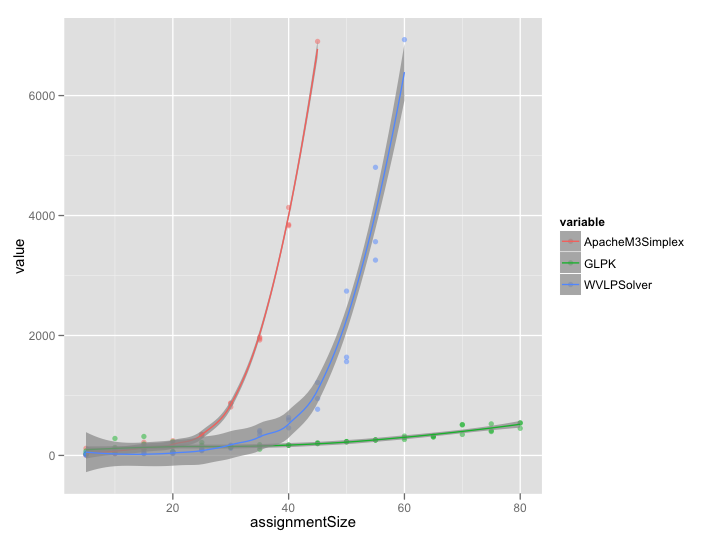
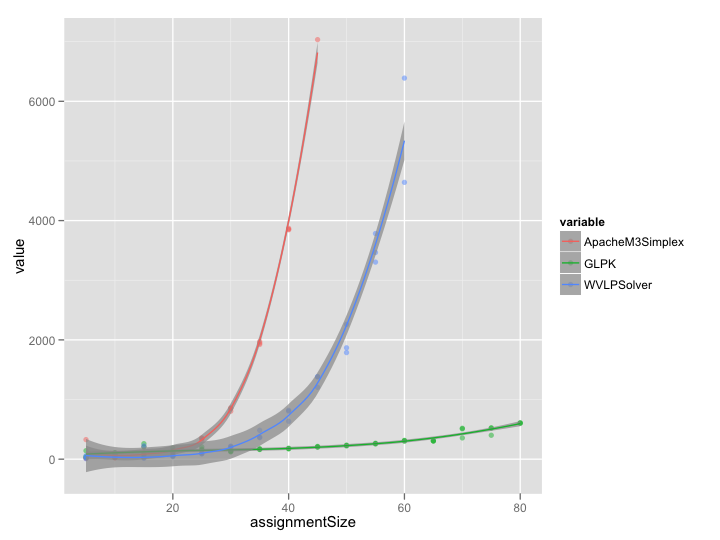
add back in pertubations re-run

diff --git a/src/com/winvector/lp/impl/RevisedSimplexSolver.java b/src/com/winvector/lp/impl/RevisedSimplexSolver.java
@@ -21,9 +21,11 @@ public final class RevisedSimplexSolver extends LPSolverImpl {
 	public double checkTol = 1.0e-8;
 	public double enteringTol = 1.0e-5;
 	public double leavingTol = 1.0e-7;
-	public boolean earlyR = true;                 // allow partial inspection for entering columns
-	public boolean earlyLeavingCalc = false;       // value and sort steps early
-	public boolean earlyLeavingExit = false;       // allow early inspection exit on valuation calc
+	public boolean perturbC = true;
+	public boolean perturbB = true;
+	public boolean earlyR = false;                 // allow partial inspection for entering columns
+	public boolean earlyLeavingCalc = true;       // value and sort steps early
+	public boolean earlyLeavingExit = true;       // allow early inspection exit on valuation calc
 	public Random rand = new Random(3252351L);
 
 	
@@ -38,6 +40,25 @@ public final class RevisedSimplexSolver extends LPSolverImpl {
 		final BitSet curBasisIndicator = new BitSet(nvars);
 		final InspectionOrder inspectionOrder = new InspectionOrder(nvars,rand);
 		final double[] bRatPtr = new double[1];
+		double[] c = tab.prob.c;
+		double[] b = tab.prob.b;
+		if(perturbC) {
+			c = new double[tab.prob.c.length];
+			for(int i=0;i<c.length;++i) {
+				c[i] = tab.prob.c[i] + 1.0e-7*rand.nextDouble();
+			}
+		}
+		if(perturbB) {
+			b = new double[tab.prob.b.length];
+			final double[] x = new double[tab.prob.c.length];
+			for(int i=0;i<x.length;++i) {
+				x[i] = 1.0e-7*rand.nextDouble();
+			}
+			final double[] p = tab.prob.A.mult(x);
+			for(int i=0;i<b.length;++i) {
+				b[i] = tab.prob.b[i] + p[i];
+			}
+		}
 		while (tab.normalSteps<=maxRounds) {
 			int enteringV = -1;
 			//prob.soln(basis,tol);
@@ -47,8 +68,8 @@ public final class RevisedSimplexSolver extends LPSolverImpl {
 			for(final int bi: tab.basis) {
 				curBasisIndicator.set(bi);
 			}
-			final double[] lambda = tab.leftBasisSoln(tab.prob.c);
-			final double[] preB = tab.basisSolveRight(tab.prob.b);
+			final double[] lambda = tab.leftBasisSoln(c);
+			final double[] preB = tab.basisSolveRight(b);
 			// find most negative entry of r, if any
 			// determines joining variable
 			double bestRi = Double.NaN;
@@ -60,7 +81,7 @@ public final class RevisedSimplexSolver extends LPSolverImpl {
 			for(int ii=0;ii<nvars;++ii) {
 				final int v = inspectionOrder.take();
 				if(!curBasisIndicator.get(v)) {
-					final double ri = tab.computeRI(lambda, tab.prob.c, v);
+					final double ri = tab.computeRI(lambda, c, v);
 					if(ri < -enteringTol) {
 						if((enteringV < 0)||(ri < bestRi)) {
 							enteringV = v;
